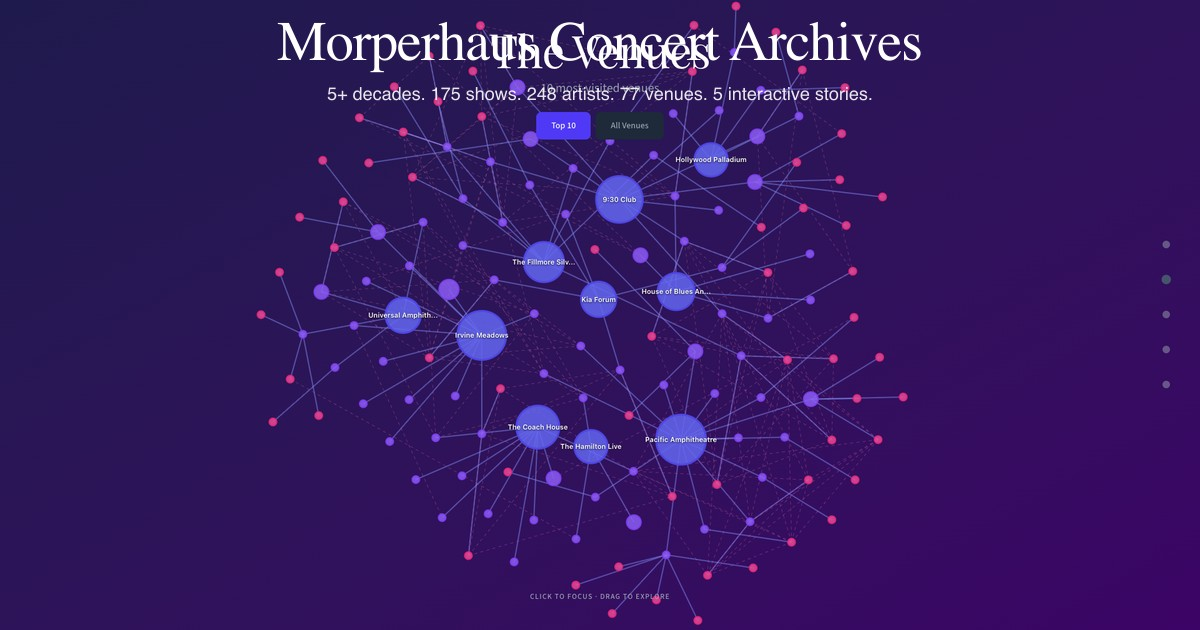
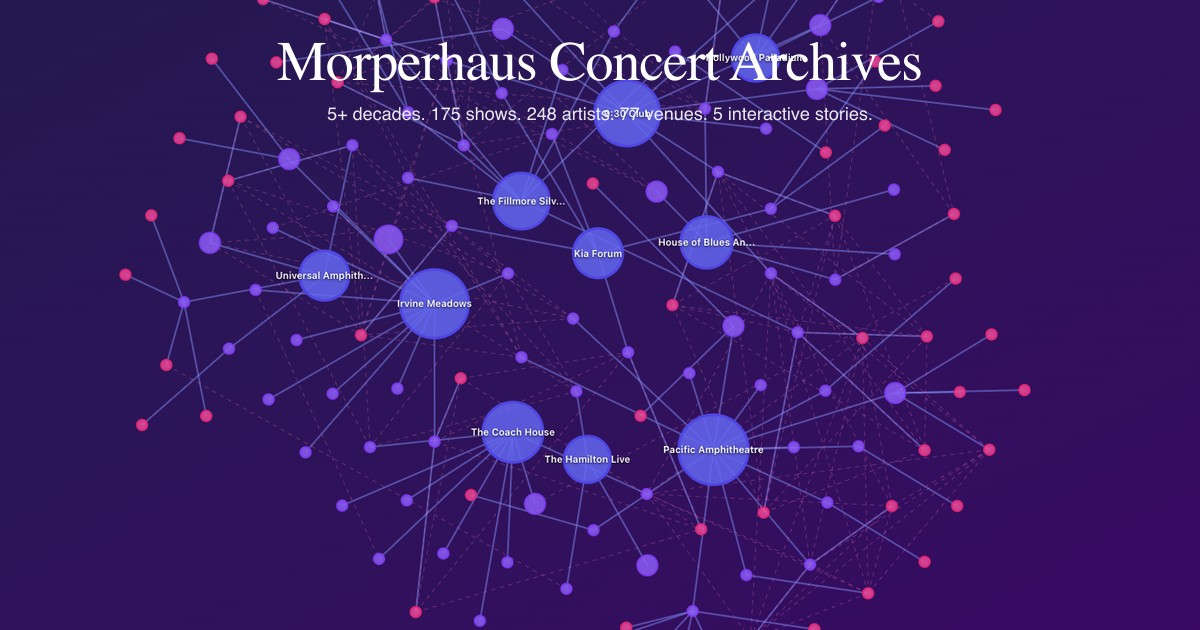
refine: Improve OG image cropping and UI element hiding
Adjustments:
- Increased zoom to 1.4x and shifted crop down to eliminate "10 most-visited venues" text
- Better selective hiding of UI chrome while preserving venue node labels
- Centered title and subtitle text at y=80/120 for better visual balance
- Hidden all buttons and footer instruction text

Result: Clean force graph visualization with just venue labels and overlay text.

🤖 Generated with [Claude Code](https://claude.com/claude-code)

diff --git a/scripts/generate-og-simple.ts b/scripts/generate-og-simple.ts
@@ -65,17 +65,27 @@ async function main() {
   await page.waitForSelector('svg', { timeout: 10000 }).catch(() => {})
   await new Promise(resolve => setTimeout(resolve, 2000))
 
-  // Hide "The Venues" title for cleaner OG image
+  // Hide UI elements for cleaner OG image
   await page.evaluate(() => {
+    // Hide title and subtitle
     const title = document.querySelector('h1')
-    if (title) {
-      title.style.display = 'none'
-    }
-    // Also hide subtitle if present
+    if (title) title.style.display = 'none'
+
     const subtitle = document.querySelector('p.text-lg, p.text-xl')
-    if (subtitle) {
-      subtitle.style.display = 'none'
-    }
+    if (subtitle) subtitle.style.display = 'none'
+
+    // Hide buttons
+    const buttons = document.querySelectorAll('button')
+    buttons.forEach(btn => btn.style.display = 'none')
+
+    // Hide footer text (but keep venue node labels in SVG)
+    const footerTexts = document.querySelectorAll('p')
+    footerTexts.forEach(p => {
+      const text = p.textContent?.toLowerCase() || ''
+      if (text.includes('click') || text.includes('drag') || text.includes('explore')) {
+        p.style.display = 'none'
+      }
+    })
   })
 
   // Take screenshot
@@ -115,16 +125,26 @@ async function main() {
         </style>
       </defs>
 
-      <text x="600" y="60" text-anchor="middle" class="title">Morperhaus Concert Archives</text>
-      <text x="600" y="100" text-anchor="middle" class="subtitle">${decades}+ decades. ${stats.concerts} shows. ${stats.artists} artists. ${stats.venues} venues. ${stats.scenes} interactive stories.</text>
+      <text x="600" y="80" text-anchor="middle" class="title">Morperhaus Concert Archives</text>
+      <text x="600" y="120" text-anchor="middle" class="subtitle">${decades}+ decades. ${stats.concerts} shows. ${stats.artists} artists. ${stats.venues} venues. ${stats.scenes} interactive stories.</text>
     </svg>
   `
 
   console.log('\nCreating composite...')
 
-  // Resize screenshot and add text overlay
+  // Resize screenshot with zoom to fill frame and crop out edges
+  // Scale up to 1.4x and crop from slightly lower to eliminate top UI text
   await sharp(screenshotBuffer)
-    .resize(OUTPUT_WIDTH, OUTPUT_HEIGHT, { fit: 'cover', position: 'center' })
+    .resize(Math.round(OUTPUT_WIDTH * 1.4), Math.round(OUTPUT_HEIGHT * 1.4), {
+      fit: 'cover',
+      position: 'center'
+    })
+    .extract({
+      left: Math.round((OUTPUT_WIDTH * 1.4 - OUTPUT_WIDTH) / 2),
+      top: Math.round((OUTPUT_HEIGHT * 1.4 - OUTPUT_HEIGHT) / 2) + 40, // Shift down to crop out top text
+      width: OUTPUT_WIDTH,
+      height: OUTPUT_HEIGHT
+    })
     .composite([
       {
         input: Buffer.from(textOverlay),
